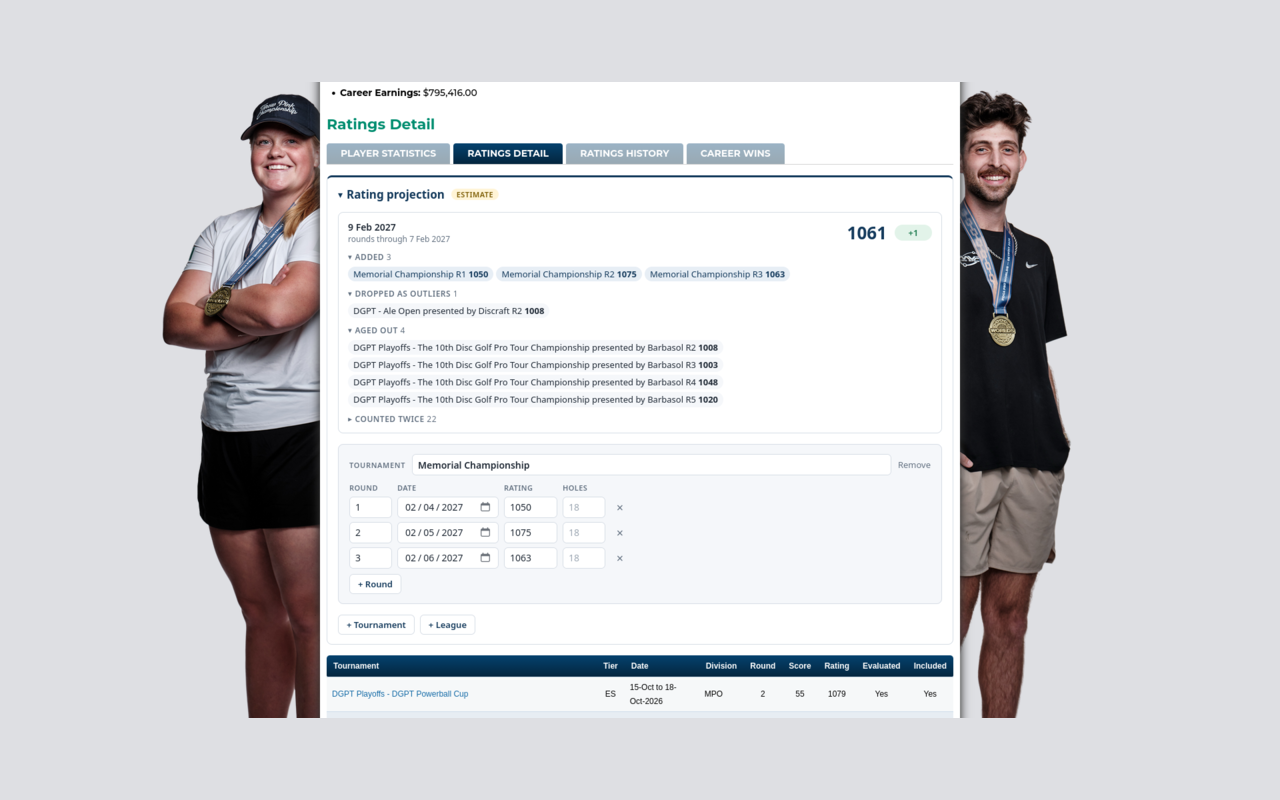
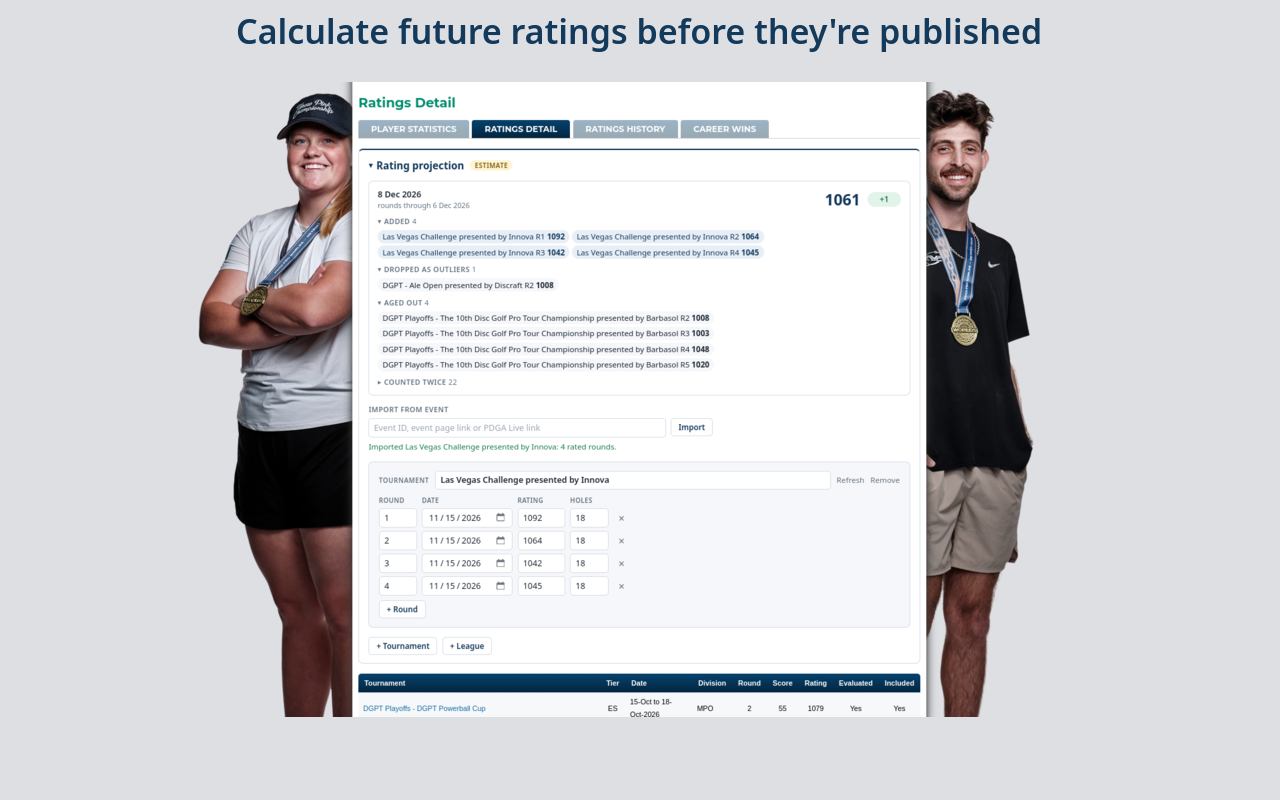
update screenshots

diff --git a/web/src/routes/rating/+page.svelte b/web/src/routes/rating/+page.svelte
@@ -48,9 +48,9 @@
 	<a class="screenshot" href={screenshot}>
 		<img
 			src={screenshot}
-			alt="The panel on a ratings detail page: the next update with added, dropped and aged-out rounds, above a tournament with three rounds."
+			alt="The panel on a ratings detail page: the next update with added, dropped and aged-out rounds, the import box, and an imported tournament with four rounds."
 			width="1280"
-			height="636"
+			height="635"
 		/>
 	</a>
 

diff --git a/extension/README.md b/extension/README.md
@@ -55,6 +55,7 @@ month, including rounds through the Sunday before.
     pnpm -C extension build        # .output/chrome-mv3 and firefox-mv3
     pnpm -C extension zip          # store zips, plus the Firefox source zip
     pnpm -C extension icons        # regenerate icons and the promo tile from assets/*.svg (needs rsvg-convert)
+    pnpm -C extension screenshots ~/shots   # store screenshots and the /rating image from raw 1.png … 5.png (needs magick)
 
 In Firefox, the extension may need "Always allow on www.pdga.com" under its
 site permissions before the panel appears.
